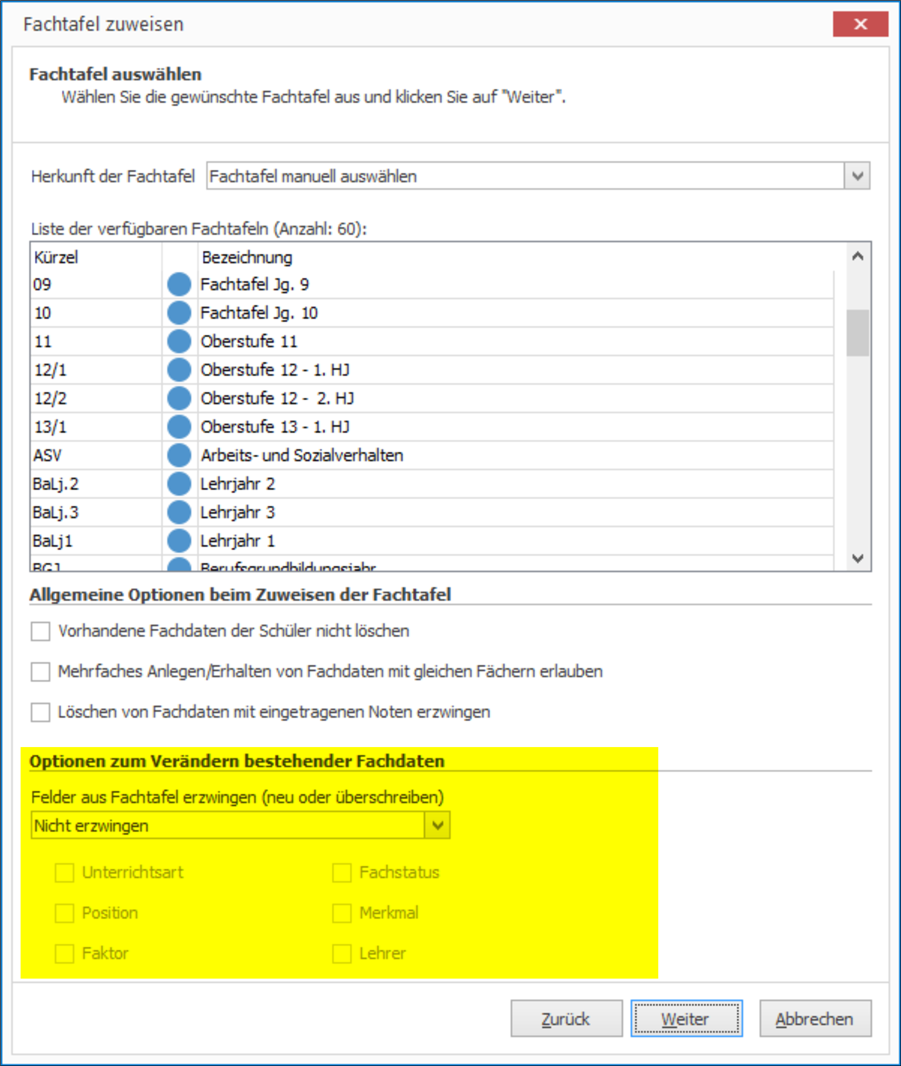
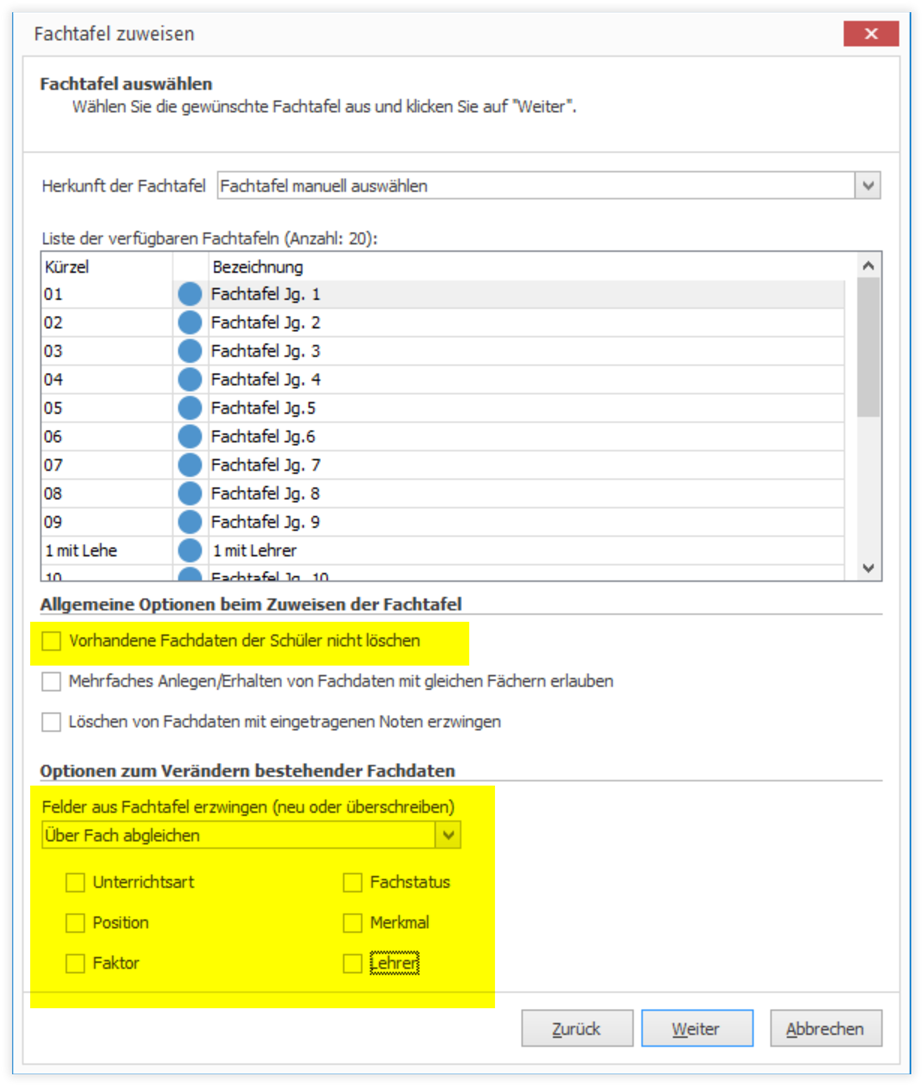
no message

Changed region(s): [[0.0, 0.0, 1.0, 1.0]]

diff --git a/docs/schulverwaltung/howto/zeugnisdaten.md b/docs/schulverwaltung/howto/zeugnisdaten.md
@@ -88,7 +88,7 @@ Möchten Sie eine Fachtafel neu erstellen, die größtenteils auf einer bereits 
     Zusätzlich gibt es weitere Optionen, die das mehrfache Zuweisen eines Fachs gestatten oder auch das Löschen von Fächern mit Note erzwingen können.
     Für bereits zugewiesene Schülerfächer können zusätzlich zu `Position`, `Faktor`, `Merkmal` und `Lehrer` noch `Unterrichtsart` und `Fachstatus` ergänzt werden.
 
-Sie weisen Schülern Fächer und Leistungen auf der Registerkarte `Zeugnis` zu. Durch das Zuweisen von Fachtafeln können Sie einem oder mehreren Schülern die zuvor definierten Fachtafeln zuweisen. 
+Sie weisen Schülern Fächer und Leistungen auf der Registerkarte `Zeugnis` zu. Durch das Zuweisen von Fachtafeln können Sie einem oder mehreren Schülern die zuvor definierten Fachtafeln zuweisen.
 
 !!! warning "Wichtig!"
 
@@ -131,13 +131,17 @@ Kombinationen|Funktion
 
 Diese Optionen können ohne das Zuweisen einer Fachtafel zum Ergänzen genutzt werden, können aber auch parallel zum Zuweisen verwendet werden.
 
+!!! warning "Wichtig!"
+
+    Wenn Sie abweichende Fachzeilen beim Ergänzen nicht ändern möchten, setzen Sie bitte das Häkchen für `Vorhandene Fachdaten der Schüler nicht löschen`!
+
 [![Optionen zum Verändern bestehender Fachdaten][4]][4]
 
 Nr.|Option|Funktion
 --|--|--
-1.|Nicht erzwingen|Standardauswahl,keine Aktion
-2.|Über Fach abgleichen| Je nach Auswahl per Checkbox werden `Unterrichtsart`, `Fachstatus`, `Merkmal`, `Position`, `Faktor` oder `Lehrer` aus der Fachtafel ausgelesen und dem erkannten Fach (bei Fach-Dopplungen den Fächer) zugewiesen. Für den Vergleich der Fächer wird die Fach-ID verwendet. Ein leerer Wert aus der Fachtafel überschreibt bei gesetzter Option einen erfassten Wert beim Schülerfach.
-3.|Über Fach, Unterrichtsart, Fachstatus abgleichen| Wie `2.`, das Fach wird aber nicht nur anhand der Fach-ID erkannt, zusätzlich werden auch Unterrichtsart (Kürzel) und Fachstatus (Kürzel) verglichen, nur wenn alle drei übereinstimmen, wird geändert.
+1.|Nicht erzwingen|Standardauswahl, keine Aktion
+2.|Über Fach abgleichen| Je nach Auswahl per Checkbox werden `Unterrichtsart`, `Fachstatus`, `Merkmal`, `Position`, `Faktor` oder `Lehrer` aus der Fachtafel ausgelesen und dem erkannten Fach (bei Fach-Dopplungen den Fächer) zugewiesen. Für den Vergleich der Fächer wird die Fach-ID verwendet. Ein leerer Wert aus der Fachtafel überschreibt bei gesetzter Option einen erfassten Wert beim Schülerfach.<br/>Wenn Sie abweichende Fachzeilen beim Ergänzen nicht ändern möchten, setzen Sie bitte das Häkchen für `Vorhandene Fachdaten der Schüler nicht löschen`
+3.|Über Fach, Unterrichtsart, Fachstatus abgleichen| Wie `2.`, das Fach wird aber nicht nur anhand der Fach-ID erkannt, zusätzlich werden auch Unterrichtsart (Kürzel) und Fachstatus (Kürzel) verglichen, nur wenn alle drei übereinstimmen, wird geändert.<br/>Wenn Sie abweichende Fachzeilen beim Ergänzen nicht ändern möchten, setzen Sie bitte das Häkchen für `Vorhandene Fachdaten der Schüler nicht löschen`
 
 ### Fachtafeln zuweisen (bis MAGELLAN 8)
 
